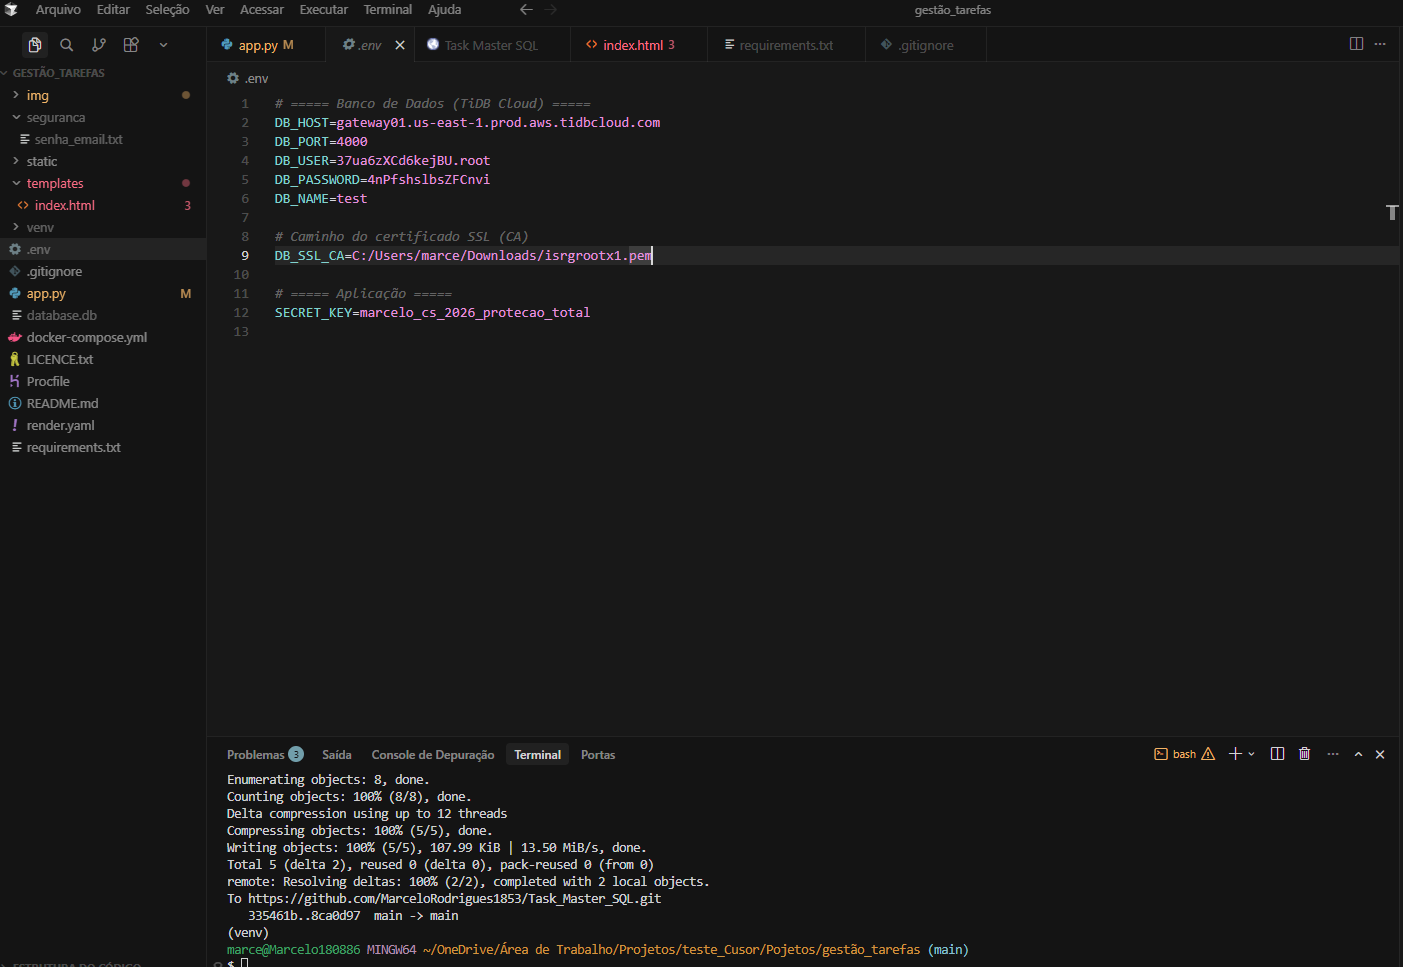
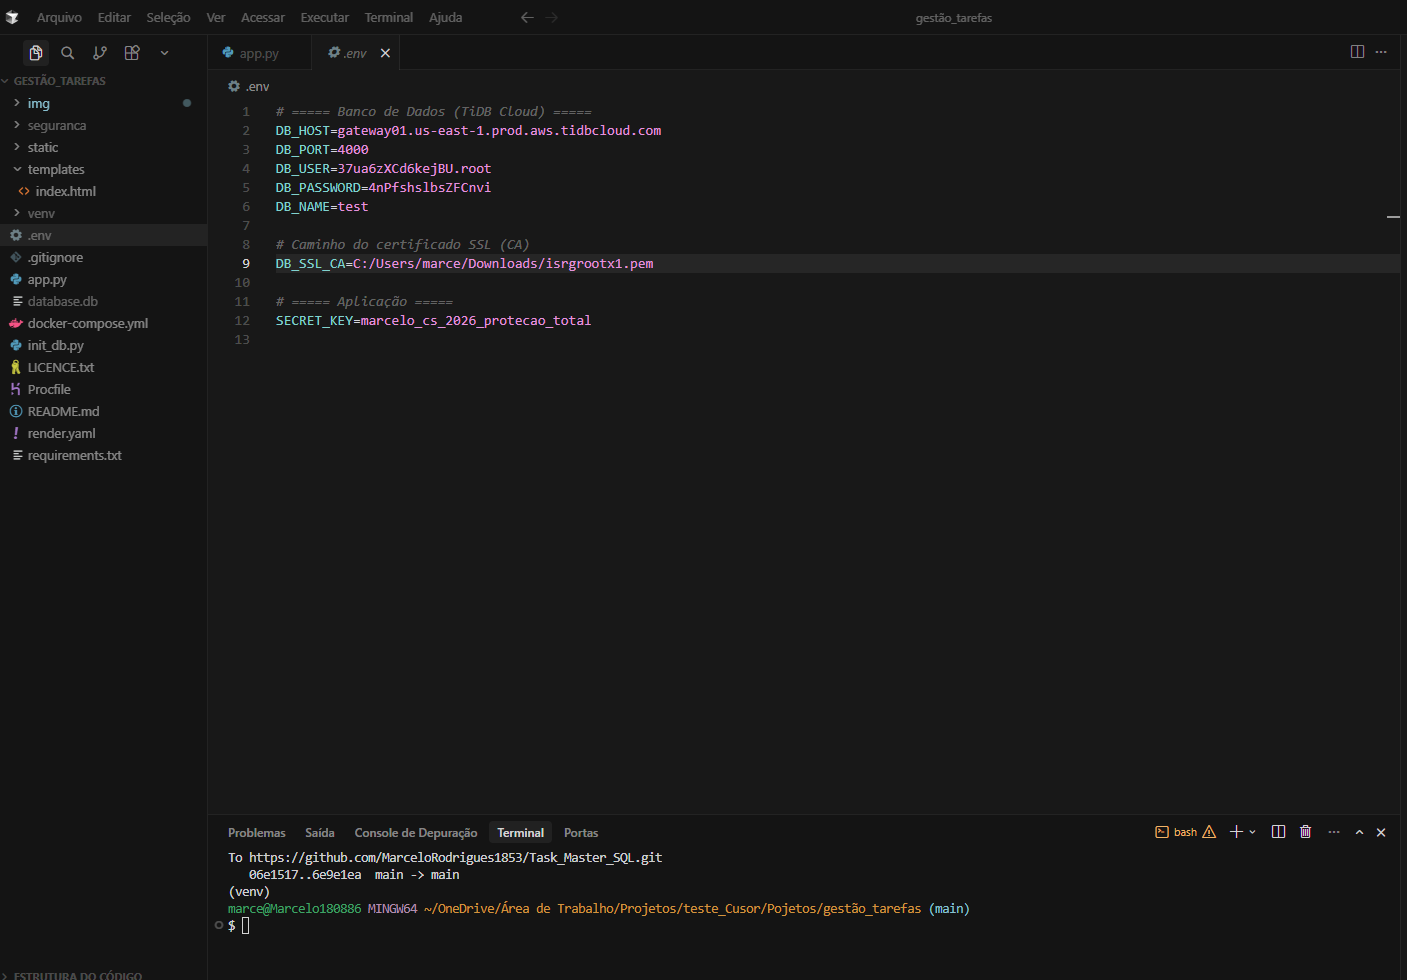
Fix: integração completa com TiDB e suporte a .env

diff --git a/app.py b/app.py
@@ -4,16 +4,37 @@ import pymysql
 import pymysql.cursors
 from urllib.parse import urlparse
 from flask import Flask, render_template, request, redirect, url_for, session
+from dotenv import load_dotenv
+
+# Carrega configurações do arquivo .env (importante para o seu setup local)
+load_dotenv()
 
 app = Flask(__name__)
+# Usa a chave do .env ou uma padrão
 app.secret_key = os.environ.get("SECRET_KEY", "chave_mestra_local_123")
 
+# ---------- CONEXÃO HÍBRIDA (LOCAL / NUVEM) ----------
 def get_db():
+    # 1. Tenta conexão via variáveis individuais do .env (Seu setup local atual)
+    host = os.environ.get("DB_HOST")
+    if host:
+        try:
+            return pymysql.connect(
+                host=host,
+                port=int(os.environ.get("DB_PORT", 4000)),
+                user=os.environ.get("DB_USER"),
+                password=os.environ.get("DB_PASSWORD"),
+                database=os.environ.get("DB_NAME"),
+                cursorclass=pymysql.cursors.DictCursor,
+                ssl={'ca': os.environ.get("DB_SSL_CA")} # Caminho para o seu .pem
+            )
+        except Exception as e:
+            print(f"Erro ao conectar ao TiDB via .env: {e}")
+
+    # 2. Tenta conexão via DATABASE_URL (Configuração do Render)
     db_url = os.environ.get("DATABASE_URL")
-    
     if db_url and "mysql" in db_url:
         try:
-            # Forma robusta de extrair dados da URL do Render
             url = urlparse(db_url)
             return pymysql.connect(
                 host=url.hostname,
@@ -22,64 +43,60 @@ def get_db():
                 password=url.password,
                 database=url.path.lstrip('/'),
                 cursorclass=pymysql.cursors.DictCursor,
-                ssl={'ca': '/etc/ssl/certs/ca-certificates.crt'}
+                ssl={'ca': '/etc/ssl/certs/ca-certificates.crt'} # Caminho padrão Linux/Render
             )
         except Exception as e:
-            print(f"Erro na conexão remota: {e}")
+            print(f"Erro na conexão via DATABASE_URL: {e}")
 
-    # Fallback para Local (SQLite)
+    # 3. Fallback para SQLite (Desenvolvimento offline)
     basedir = os.path.abspath(os.path.dirname(__file__))
     conn = sqlite3.connect(os.path.join(basedir, "database.db"))
     conn.row_factory = sqlite3.Row
     return conn
 
+# ---------- INICIALIZAÇÃO DO BANCO ----------
 def init_db():
     db = get_db()
     cursor = db.cursor()
     
-    is_mysql = os.environ.get("DATABASE_URL") and "mysql" in os.environ.get("DATABASE_URL")
+    # Verifica se estamos usando MySQL/TiDB ou SQLite
+    is_mysql = (os.environ.get("DB_HOST") is not None) or (os.environ.get("DATABASE_URL") is not None and "mysql" in os.environ.get("DATABASE_URL"))
+    
     pk_style = "INTEGER PRIMARY KEY AUTO_INCREMENT" if is_mysql else "INTEGER PRIMARY KEY AUTOINCREMENT"
-    text_type = "VARCHAR(255)" if is_mysql else "TEXT"
 
-    # Criar tabelas se não existirem
-    cursor.execute(f"CREATE TABLE IF NOT EXISTS usuarios (id {pk_style})")
-    cursor.execute(f"CREATE TABLE IF NOT EXISTS tarefas (id {pk_style})")
+    cursor.execute(f"""
+    CREATE TABLE IF NOT EXISTS usuarios (
+        id {pk_style},
+        usuario VARCHAR(100) NOT NULL,
+        senha VARCHAR(100) NOT NULL
+    )""")
     
-    # Se estiver no MySQL/TiDB, garantir que as colunas existam (Add Column if not exists)
-    if is_mysql:
-        # Colunas para usuarios
-        for col, spec in [("usuario", "VARCHAR(100)"), ("senha", "VARCHAR(100)")]:
-            try:
-                cursor.execute(f"ALTER TABLE usuarios ADD COLUMN {col} {spec}")
-            except: pass # Ignora se a coluna já existir
-            
-        # Colunas para tarefas
-        for col, spec in [("texto", "TEXT"), ("prioridade", "INTEGER"), 
-                          ("feito", "INTEGER DEFAULT 0"), ("usuario", "VARCHAR(100)")]:
-            try:
-                cursor.execute(f"ALTER TABLE tarefas ADD COLUMN {col} {spec}")
-            except: pass # Ignora se a coluna já existir
-    else:
-        # No SQLite local, é mais fácil recriar ou apenas garantir a criação inicial
-        cursor.execute(f"""CREATE TABLE IF NOT EXISTS usuarios (
-            id {pk_style}, usuario VARCHAR(100), senha VARCHAR(100)
-        )""")
-        cursor.execute(f"""CREATE TABLE IF NOT EXISTS tarefas (
-            id {pk_style}, texto TEXT, prioridade INTEGER, feito INTEGER DEFAULT 0, usuario VARCHAR(100)
-        )""")
+    cursor.execute(f"""
+    CREATE TABLE IF NOT EXISTS tarefas (
+        id {pk_style},
+        texto TEXT NOT NULL,
+        prioridade INTEGER,
+        feito INTEGER DEFAULT 0,
+        usuario VARCHAR(100)
+    )""")
     
-    if hasattr(db, 'commit'): db.commit()
+    if hasattr(db, 'commit'):
+        db.commit()
     db.close()
 
+# Inicializa o banco ao subir a aplicação
 with app.app_context():
     try:
         init_db()
     except Exception as e:
         print(f"Aviso ao iniciar banco: {e}")
 
-# Helper para placeholders de SQL
+# Helper para identificar o placeholder correto (?, %s)
 def get_ph():
-    return "%s" if os.environ.get("DATABASE_URL") and "mysql" in os.environ.get("DATABASE_URL") else "?"
+    is_mysql = (os.environ.get("DB_HOST") is not None) or (os.environ.get("DATABASE_URL") is not None and "mysql" in os.environ.get("DATABASE_URL"))
+    return "%s" if is_mysql else "?"
+
+# ---------- ROTAS ----------
 
 @app.route("/login", methods=["GET", "POST"])
 def login():
@@ -123,6 +140,7 @@ def index():
     ph = get_ph()
     cursor.execute(f"SELECT * FROM tarefas WHERE usuario = {ph} ORDER BY feito ASC, prioridade DESC", (session["usuario"],))
     tarefas = cursor.fetchall()
+    
     total = len(tarefas)
     feitas = len([t for t in tarefas if t["feito"] in [1, True]])
     progresso = int((feitas / total) * 100) if total > 0 else 0
@@ -131,6 +149,7 @@ def index():
 
 @app.route("/adicionar", methods=["POST"])
 def adicionar():
+    if "usuario" not in session: return redirect(url_for("login"))
     db = get_db()
     cursor = db.cursor()
     ph = get_ph()
@@ -142,6 +161,7 @@ def adicionar():
 
 @app.route("/editar/<int:id>", methods=["GET", "POST"])
 def editar(id):
+    if "usuario" not in session: return redirect(url_for("login"))
     db = get_db()
     cursor = db.cursor()
     ph = get_ph()
@@ -151,13 +171,16 @@ def editar(id):
         if hasattr(db, 'commit'): db.commit()
         db.close()
         return redirect(url_for("index"))
+    
     cursor.execute(f"SELECT * FROM tarefas WHERE id = {ph} AND usuario = {ph}", (id, session["usuario"]))
     tarefa = cursor.fetchone()
     db.close()
+    # Recarrega a página de app com o modo edição ativado
     return render_template("index.html", tela="app", nome=session["usuario"], tarefas=[], progresso=0, tarefa_edit=tarefa)
 
 @app.route("/completar/<int:id>")
 def completar(id):
+    if "usuario" not in session: return redirect(url_for("login"))
     db = get_db()
     cursor = db.cursor()
     ph = get_ph()
@@ -168,6 +191,7 @@ def completar(id):
 
 @app.route("/deletar/<int:id>")
 def deletar(id):
+    if "usuario" not in session: return redirect(url_for("login"))
     db = get_db()
     cursor = db.cursor()
     ph = get_ph()
